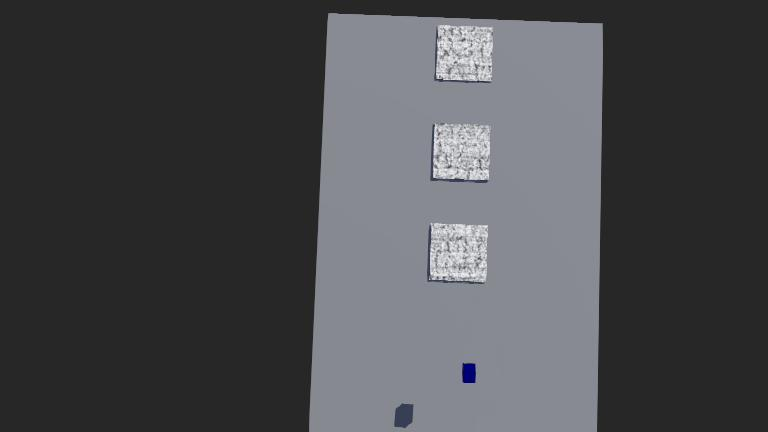
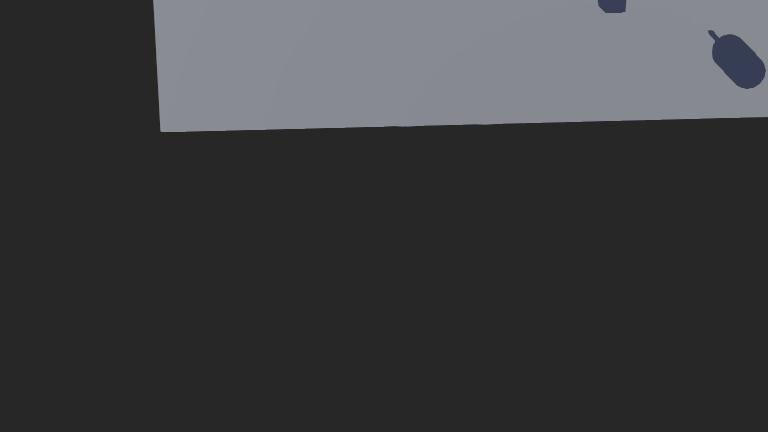
update conveyer

diff --git a/sanat_yar_bina/main.py b/sanat_yar_bina/main.py
@@ -7,7 +7,8 @@ import subprocess
 import os
 # وارد کردن تنظیمات کلان
 from config.config import PATHS, VISION_SETTINGS, CONTROL_SETTINGS, REPORT_SETTINGS
-
+from perception.detector_webots import WebotsDefectDetector
+from perception.selector_webots import WebotsTargetSelector
 # وارد کردن ماژولهای توسعه داده شده
 from perception.detector import DefectDetector
 from perception.selector import TargetSelector
@@ -33,6 +34,9 @@ from PyQt5.QtWidgets import (QDialog, QVBoxLayout, QHBoxLayout, QLabel,
 # ==========================================
 # Thread 1: پردازش تصویر و کنترلر بلادرنگ (Pure RL)
 # ==========================================
+CLASSES = ["crazing", "inclusion", "patches", "pitted_surface", "rolled-in_scale", "scratches"]
+COLORS = [(255, 0, 0), (0, 255, 0), (0, 0, 255), (255, 255, 0), (255, 0, 255), (0, 255, 255)]
+
 class VisionControlThread(QThread):
     new_frame_signal = pyqtSignal(object)
     new_log_signal = pyqtSignal(object)
@@ -45,19 +49,26 @@ class VisionControlThread(QThread):
         self.input_mode = "video"
         
         self.webots_receiver = None
-        self.webots_process = None  # 🔥 متغیر جدید برای کنترل برنامه Webots
+        self.webots_process = None
 
-        # بارگذاری سایر ماژولها...
+        # ۱. ماژولهای مخصوص حالت ویدیو
         self.detector = DefectDetector(model_path=PATHS["yolo_model"], conf_thresh=VISION_SETTINGS["confidence_threshold"])
         self.selector = TargetSelector() 
+        
+        # ۲. 🔥 ماژولهای کاملاً مجزا و اختصاصی برای حالت Webots (مطابق کد مرجع شما)
+        self.webots_detector = WebotsDefectDetector(model_path=PATHS["yolo_model_webot"], conf_thresh=0.25)
+        self.webots_selector = WebotsTargetSelector()
+
         self.logger = EventLogger(log_dir=PATHS["log_dir"])
         self.screenshot_mgr = ScreenshotManager(save_dir=PATHS["screenshot_dir"])
         self.fuzzy_brain = AdvancedFuzzyController()
         self.rl_agent = InferenceRLAgent(model_path=PATHS["rl_model"])
+        
         self.current_speed = 0.5 
         self.target_speed = 0.5
         self.saved_speed = 0.5
         self.motor_state = "RUNNING"
+        
         import zmq
         self.cmd_context = zmq.Context()
         self.cmd_socket = self.cmd_context.socket(zmq.PUB)
@@ -126,8 +137,6 @@ class VisionControlThread(QThread):
                 time.sleep(0.05)
                 continue
 
-            # --- دریافت فریم بر اساس حالت ورودی ---
-            # --- دریافت فریم بر اساس حالت ورودی ---
             frame = None
             if self.input_mode == "video" and cap and cap.isOpened():
                 ret, frame = cap.read()
@@ -136,7 +145,6 @@ class VisionControlThread(QThread):
                     continue
             elif self.input_mode == "webots" and self.webots_receiver:
                 raw_frame = self.webots_receiver.get_frame()
-                
                 if raw_frame is None:
                     frame = np.zeros((480, 640, 3), dtype=np.uint8)
                     frame[:] = (42, 23, 15)
@@ -144,26 +152,50 @@ class VisionControlThread(QThread):
                     self.new_frame_signal.emit(frame)
                     continue
                 else:
-                    # فریم آماده است. چون در ویباتز چرخیده، اینجا دیگر کاری با آن نداریم
                     frame = raw_frame
             else:
                 break
 
-            # --- پردازش هوش مصنوعی (بدون هیچ تغییری، همان تکنیک قبلی شما اجرا میشود) ---
-            detections = self.detector.detect(frame)
-            
-            for det in detections:
-                x1, y1, x2, y2 = map(int, det["bbox"])
-                cv2.rectangle(frame, (x1, y1), (x2, y2), (0, 0, 255), 2)
-                cv2.putText(frame, det["class_name"], (x1, y1-10), cv2.FONT_HERSHEY_SIMPLEX, 0.6, (0, 0, 255), 2)
+            # ==========================================
+            # 🔥 تفکیک کامل پایپلاین تشخیص برای Webots و Video
+            # ==========================================
+            if self.input_mode == "webots":
+                # استفاده از دتکتور و سلکتور اختصاصی وباتز
+                results = self.webots_detector.detect(frame)
+                risk, conf = self.webots_selector.calculate_frame_risk(results, frame.shape)
                 
+                # استخراج باکسها برای رسم روی تصویر داشبورد
+                detections = []
+                for box in results.boxes:
+                    x1, y1, x2, y2 = map(int, box.xyxy[0])
+                    c_id = int(box.cls)
+                    conf_score = float(box.conf)
+                    cls_name = CLASSES[c_id] if 'CLASSES' in globals() else f"class_{c_id}"
+                    detections.append({"bbox": [x1, y1, x2, y2], "class_name": cls_name, "confidence": conf_score})
+                    
+                    # رسم مستطیل روی فریم داشبورد
+                    color = COLORS[c_id] if 'COLORS' in globals() else (0, 0, 255)
+                    cv2.rectangle(frame, (x1, y1), (x2, y2), color, 1)
+                    cv2.putText(frame, f"{cls_name} {conf_score:.2f}", (x1, y1-5),
+                                cv2.FONT_HERSHEY_SIMPLEX, 0.4, color, 1)
+            else:
+                # پایپلاین استاندارد حالت ویدیو
+                detections = self.detector.detect(frame)
+                for det in detections:
+                    x1, y1, x2, y2 = map(int, det["bbox"])
+                    cv2.rectangle(frame, (x1, y1), (x2, y2), (0, 0, 255), 2)
+                    cv2.putText(frame, det["class_name"], (x1, y1-10), cv2.FONT_HERSHEY_SIMPLEX, 0.6, (0, 0, 255), 2)
+                risk, conf = self.selector.calculate_frame_risk(detections, width, height)
+
             self.new_frame_signal.emit(frame)
 
-            if frame_count % CONTROL_SETTINGS["frames_per_decision"] == 0:
+            # تصمیمگیری کنترلر فازی و RL (هر ۲ فریم برای واکنش سریع در وباتز)
+            decision_interval = 2 if self.input_mode == "webots" else CONTROL_SETTINGS["frames_per_decision"]
+            
+            if frame_count % decision_interval == 0:
                 from datetime import datetime
                 timestamp_str = datetime.now().strftime("%Y-%m-%d %H:%M:%S.%f")[:-3]
                 
-                risk, conf = self.selector.calculate_frame_risk(detections, width, height)
                 fuzzy_suggestion = self.fuzzy_brain.compute(risk, conf)
                 state = self.rl_agent.get_state(fuzzy_suggestion, self.current_speed)
                 action_idx, speed_change = self.rl_agent.choose_best_action(state)
@@ -172,10 +204,9 @@ class VisionControlThread(QThread):
                 new_speed = np.clip(self.current_speed + speed_change, 0.1, 1.0)
                 self.current_speed = new_speed
                 
-                # 🔥 این دو خط را برای ارسال زنده فرمان سرعت به ویباتز اضافه کنید
+                # ارسال فرمان زنده به وباتز
                 if self.input_mode == "webots":
                     self.cmd_socket.send_string(f"SPEED:{self.current_speed}")
-                # ==========================================
                 
                 f_label = self.fuzzy_brain.get_label(fuzzy_suggestion) if hasattr(self.fuzzy_brain, 'get_label') else str(round(fuzzy_suggestion,2))
                 r_label = self.rl_agent.get_label(speed_change) if hasattr(self.rl_agent, 'get_label') else str(speed_change)

diff --git a/sanat_yar_bina/perception/selector_webots.py b/sanat_yar_bina/perception/selector_webots.py
@@ -1,0 +1,37 @@
+import numpy as np
+
+# تعریف کلاسها و رنگهای استاندارد مطابق مدل شما
+CLASSES = ["crazing", "inclusion", "patches", "pitted_surface", "rolled-in_scale", "scratches"]
+COLORS = [(255, 0, 0), (0, 255, 0), (0, 0, 255), (255, 255, 0), (255, 0, 255), (0, 255, 255)]
+
+RISK_FACTORS = {
+    0: 1.0,  # crazing (High Risk)
+    1: 0.9,  # inclusion
+    2: 0.6,  # patches
+    3: 0.8,  # pitted_surface
+    4: 0.5,  # rolled-in_scale
+    5: 0.2   # scratches (Low Risk)
+}
+
+class WebotsTargetSelector:
+    def __init__(self):
+        pass
+
+    def calculate_frame_risk(self, results, img_shape):
+        h, w = img_shape[:2]
+        total_weighted_risk = 0
+        confidences = []
+        
+        if len(results.boxes) == 0: 
+            return 0.0, 1.0
+            
+        for box in results.boxes:
+            x1, y1, x2, y2 = map(int, box.xyxy[0])
+            normalized_area = ((x2 - x1) * (y2 - y1)) / (h * w)
+            cls_id = int(box.cls)
+            # استفاده از ضریب دقیق 10 مطابق کد مرجع شما
+            total_weighted_risk += (normalized_area * RISK_FACTORS.get(cls_id, 0.5)) * 10
+            confidences.append(float(box.conf))
+            
+        mean_conf = sum(confidences) / len(confidences)
+        return min(total_weighted_risk, 1.0), mean_conf

diff --git a/sanat_yar_bina/config/config.py b/sanat_yar_bina/config/config.py
@@ -6,8 +6,10 @@ BASE_DIR = Path(__file__).resolve().parent.parent
 
 # --- تنظیمات مسیر فایلها و پوشهها ---
 PATHS = {
+    "yolo_model_webot": r"C:\Users\MSH8303\Sanat_yar_bina-1\simulation\controllers\smart_conveyor\best.pt",
     "yolo_model": os.path.join(BASE_DIR, "models", "best.pt"),
     "rl_model": os.path.join(BASE_DIR, "models", "hybrid_rl.pkl"),
+    "rl_model_webot": r"C:\Users\MSH8303\Sanat_yar_bina-1\simulation\controllers\smart_conveyor\hybrid_rl_model.pkl",
     "slm_model": os.path.join(BASE_DIR, "models", "qwen2.5-3b-instruct-q4_k_m.gguf"),
     "video_source": os.path.join(BASE_DIR, "data", "test_video.mp4"), # ویدیو تستی خط تولید
     "log_dir": os.path.join(BASE_DIR, "data", "logs"),

diff --git a/sanat_yar_bina/perception/detector_webots.py b/sanat_yar_bina/perception/detector_webots.py
@@ -1,0 +1,17 @@
+import os
+from ultralytics import YOLO
+
+class WebotsDefectDetector:
+    def __init__(self, model_path=None, conf_thresh=0.25):
+        if model_path is None:
+            current_dir = os.path.dirname(os.path.abspath(__file__))
+            model_path = r"C:\Users\MSH8303\Sanat_yar_bina-1\simulation\controllers\smart_conveyor\best.pt"
+            
+        print(f"[*] Loading Webots YOLO Model from: {model_path}")
+        self.model = YOLO(model_path)
+        self.conf_thresh = conf_thresh
+
+    def detect(self, frame):
+        # اجرای یولو روی فریم چرخیده شدهی Webots
+        results = self.model(frame, conf=self.conf_thresh, verbose=False)[0]
+        return results

diff --git a/simulation/controllers/smart_conveyor/smart_conveyor.py b/simulation/controllers/smart_conveyor/smart_conveyor.py
@@ -9,7 +9,7 @@ from controller import Supervisor
 TIME_STEP = 32
 START_X = -1.25  
 END_X = 1.25     
-PHYSICAL_SPEED_MULTIPLIER = 0.03 
+PHYSICAL_SPEED_MULTIPLIER = 0.01
 CURRENT_DIR = os.path.dirname(os.path.abspath(__file__))
 IMAGES_DIR = os.path.join(CURRENT_DIR, "validation_images")
 
